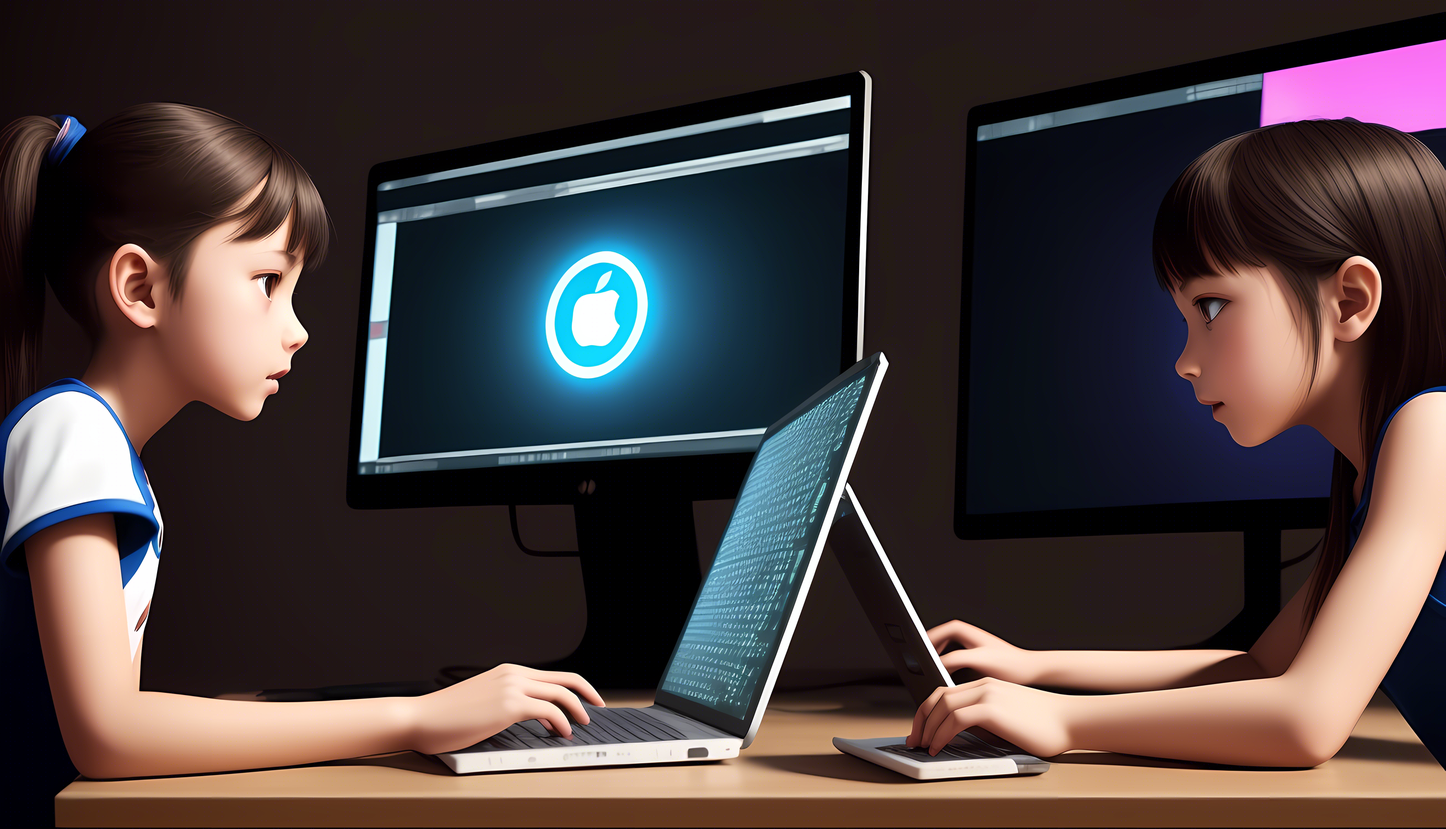
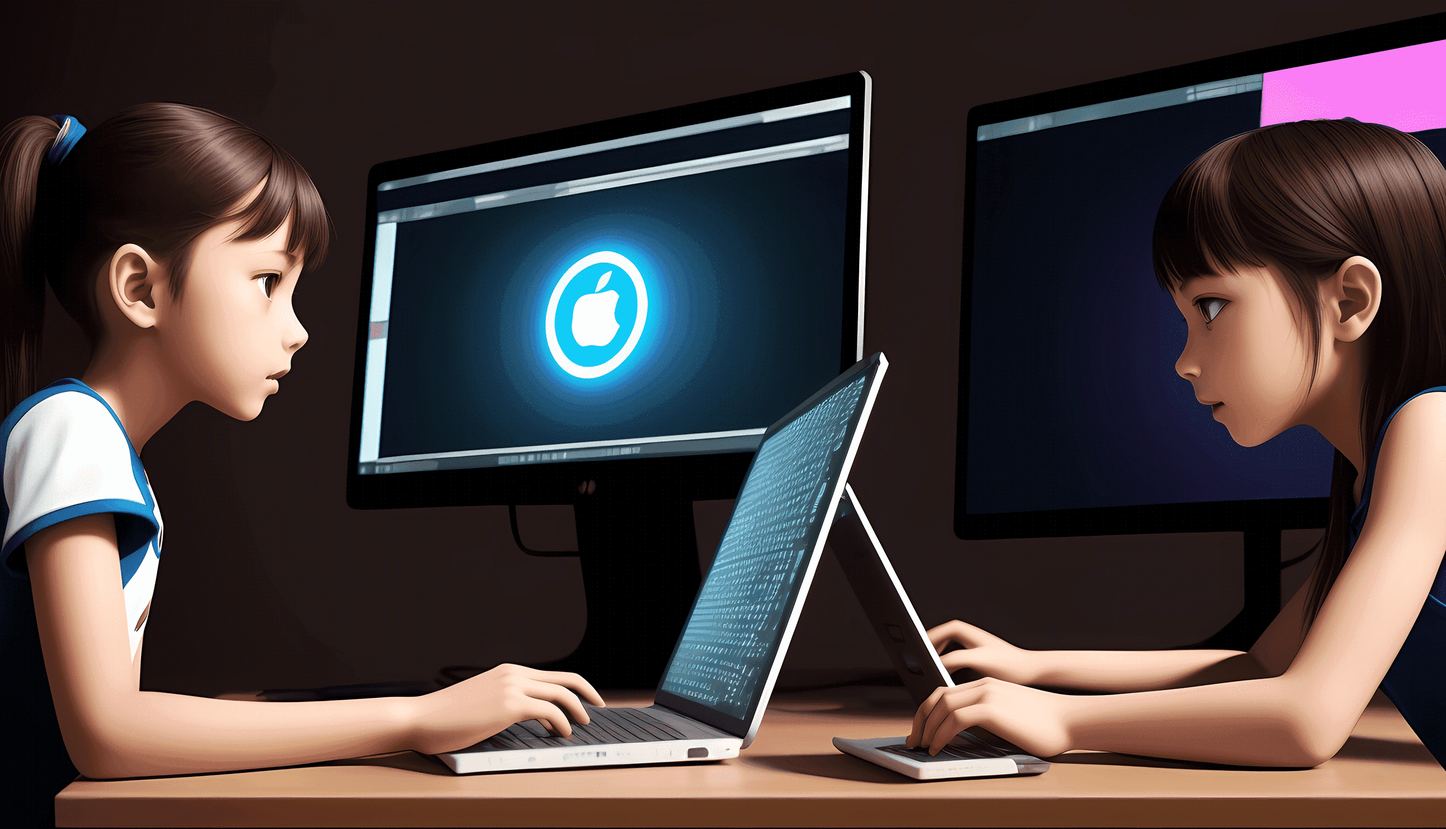
压缩图片大小

diff --git a/pages/_app.tsx b/pages/_app.tsx
@@ -1,7 +1,7 @@
-// pages/_app.js
 import { NextUIProvider } from "@nextui-org/react";
+import type { AppProps } from "next/app";
 
-function MyApp({ Component, pageProps }) {
+function MyApp({ Component, pageProps }: AppProps) {
   return (
     <NextUIProvider>
       <Component {...pageProps} />
